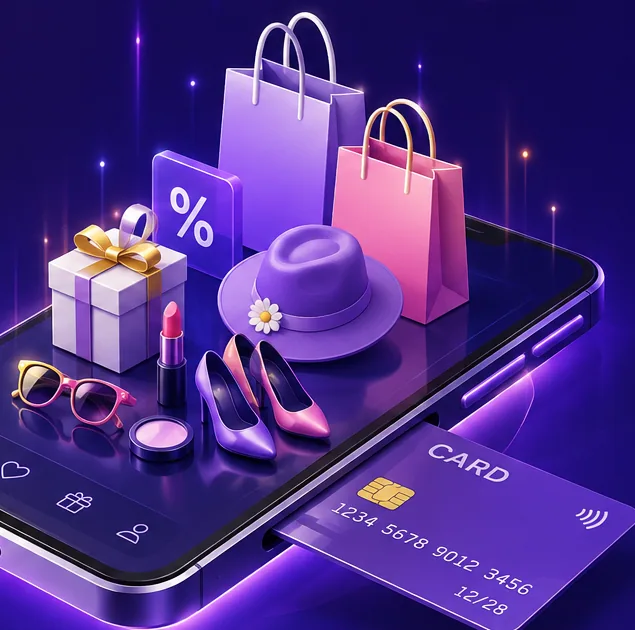
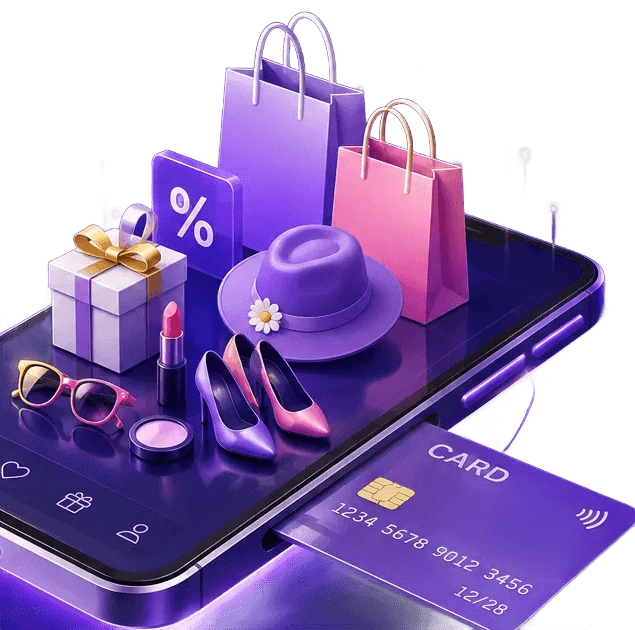
Hero: slide images with the background removed (transparent), light edge feather kept

diff --git a/src/app/components/HeroSection.tsx b/src/app/components/HeroSection.tsx
@@ -4,7 +4,7 @@ import heroCardPhone from "../../imports/HeroCardPhone.webp";
 import heroGlobalSim from "../../imports/HeroGlobalSim.webp";
 import heroValidator from "../../imports/HeroValidator.webp";
 
-const FEATHER = "linear-gradient(to right, transparent 0%, #000 22%, #000 78%, transparent 100%), linear-gradient(to bottom, transparent 0%, #000 22%, #000 78%, transparent 100%)";
+const FEATHER = "linear-gradient(to right, transparent 0%, #000 7%, #000 93%, transparent 100%), linear-gradient(to bottom, transparent 0%, #000 7%, #000 93%, transparent 100%)";
 
 // ─── Per-slide content ────────────────────────────────────────────────────────
 const RAW_SLIDES = [
@@ -162,8 +162,8 @@ export function HeroSection({ onApplyClick }: { onApplyClick?: () => void }) {
               draggable={false}
               style={{
                 transition: "opacity 0.4s ease", opacity: fading ? 0 : 1,
-                // The slide art has its own scene background (no alpha channel), so its edges are feathered into the hero:
-                // a fade on all four sides, multiplied together (mask-composite: intersect). Even on every edge, unlike a radial fade that eats the corners.
+                // The slide art is a transparent cut-out (background removed). This light fade on all four sides only softens the places where the art meets the
+                // edge of its frame; the two gradients are multiplied together (mask-composite: intersect).
                 maskImage: FEATHER,
                 WebkitMaskImage: FEATHER,
                 maskComposite: "intersect",
